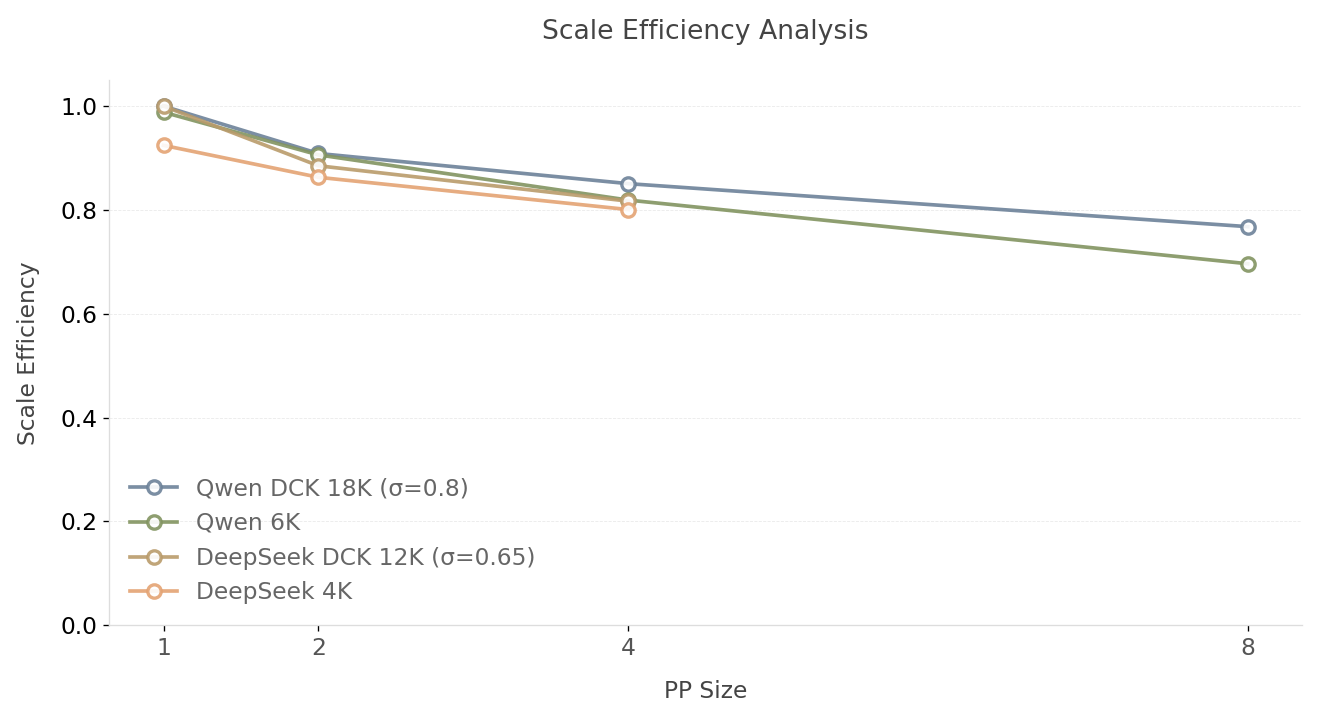
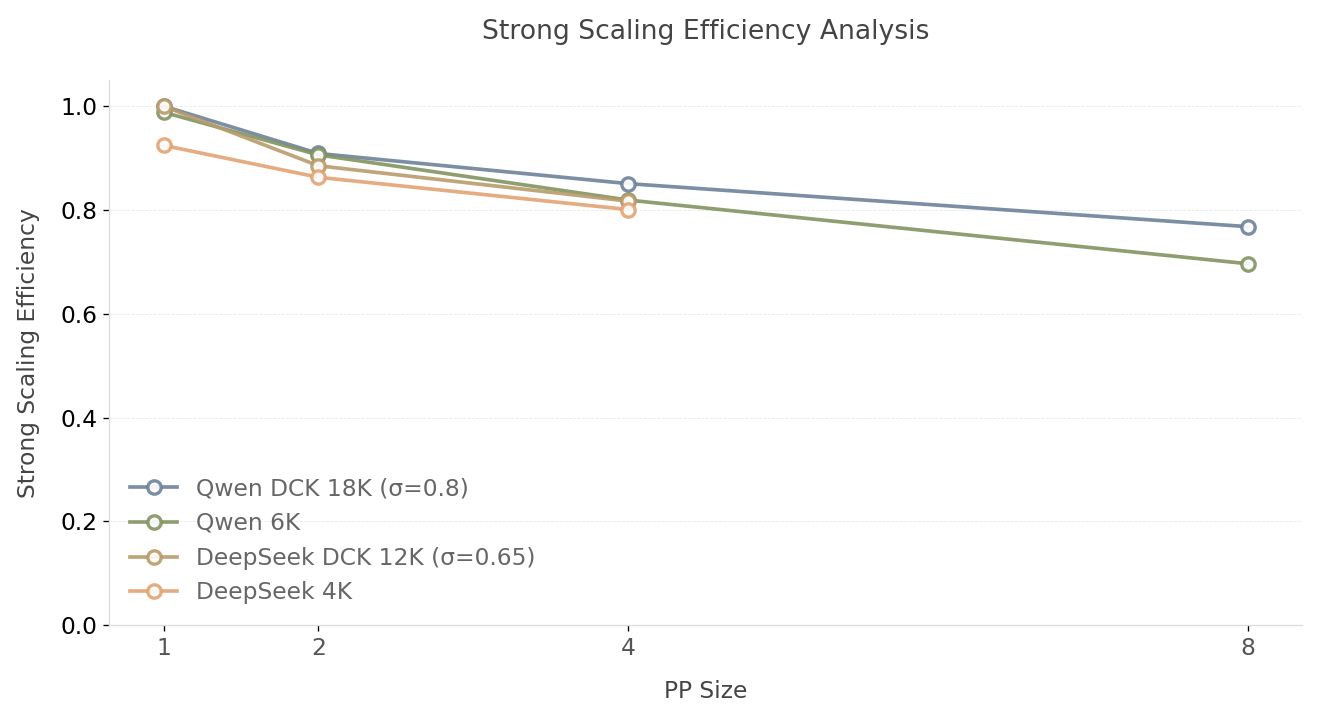
fix comment

Changed region(s): [[0.0, 0.3056, 0.0311, 0.7028], [0.3727, 0.0306, 0.7144, 0.0611]]

diff --git a/blog/2026-01-07-chunked-pipeline.md b/blog/2026-01-07-chunked-pipeline.md
@@ -45,7 +45,7 @@ The key mechanisms of the implementation include:
 
 ### **3\. Advanced Option: Dynamic chunking**
 
-With Chunked Pipeline Parallelism and Async P2P communication, SGLang already achieves over 80% scale efficiency as the PP size increases to 4. However, Chunked prefill with a fixed size can still cause bubbles in the pipeline, and this inefficiency becomes more pronounced as the PP degree increases. The main reason behind this phenomenon is that the model exhibits non-uniform execution latency across chunks of identical size, primarily due to the incremental nature of self-attention. **As the prefix sequence length grows, the per-chunk processing time increases non-linearly. These timing mismatches propagate through the pipeline, compounding efficiency losses at higher PP ranks.**
+With Chunked Pipeline Parallelism and Async P2P communication, SGLang already achieves over 80% strong scaling efficiency as the PP size increases to 4. However, Chunked prefill with a fixed size can still cause bubbles in the pipeline, and this inefficiency becomes more pronounced as the PP degree increases. The main reason behind this phenomenon is that the model exhibits non-uniform execution latency across chunks of identical size, primarily due to the incremental nature of self-attention. **As the prefix sequence length grows, the per-chunk processing time increases non-linearly. These timing mismatches propagate through the pipeline, compounding efficiency losses at higher PP ranks.**
 
 ![figure1](/images/blog/chunked_pipeline/pp_bubbles_before.jpg)<center>Fig. 1: Pipeline diagram with fixed chunked prefill size</center>
 
@@ -103,7 +103,7 @@ Our experimental testbed is a small cluster of 6 H20 nodes (8 × 96GB VRAM GPUs)
 
 Note: We use DCK to mark the chunked prefill size setup when enabling the dynamic chunking, and σ stands for the smooth factor of dynamic chunking.
 
-### **Input Token Throughput and Scale Efficiency**
+### **Input Token Throughput and Strong Scaling Efficiency**
 
 The analysis of Throughput and PP size demonstrates strong horizontal scalability across both model families, though the degree of efficiency varies by configuration.
 
@@ -114,12 +114,9 @@ The analysis of Throughput and PP size demonstrates strong horizontal scalabilit
 
 ![figure8](/images/blog/chunked_pipeline/qwen_throughput.png)<center>Fig. 8: Throughput Analysis of Qwen3-235B-A22B-FP8</center>
 
-![figure9](/images/blog/chunked_pipeline/normalized_throughput.png)<center>Fig. 9: Normalized Total Throughput vs. PP Size Analysis</center>
+The Strong Scaling Efficiency curves illustrate the degradation of hardware utilization as the system scales. All configurations exhibit a monotonic decay in efficiency as PP size (GPU counts) increases. However, **Qwen DCK 18K** maintains a superior efficiency of **77%** at the PP8 scale, whereas the static 6K configuration drops to **70%**. This confirms that larger, dynamically managed chunks are more resilient to the communication overheads inherent in large-scale distributed inference. Due to resource constraints, DeepSeek-V3.1 was evaluated up to PP size \= 4, maintaining an efficiency of **\~81.7%**. Extrapolating the current slope suggests that DeepSeek would likely follow a similar efficiency trajectory to Qwen, where DCK is projected to outperform the fixed chunking strategy.
 
-
-The Scale Efficiency curves illustrate the degradation of hardware utilization as the system scales. All configurations exhibit a monotonic decay in efficiency as PP size (GPU counts) increases. However, **Qwen DCK 18K** maintains a superior efficiency of **77%** at the PP8 scale, whereas the static 6K configuration drops to **70%**. This confirms that larger, dynamically managed chunks are more resilient to the communication overheads inherent in large-scale distributed inference. Due to resource constraints, DeepSeek-V3.1 was evaluated up to PP size \= 4, maintaining an efficiency of **\~81.7%**. Extrapolating the current slope suggests that DeepSeek would likely follow a similar efficiency trajectory to Qwen, where DCK is projected to outperform the fixed chunking strategy.
-
-![figure10](/images/blog/chunked_pipeline/scale_efficiency.png)<center>Fig. 10: Scale Efficiency vs. PP Size Analysis</center>
+![figure9](/images/blog/chunked_pipeline/scale_efficiency.png)<center>Fig. 9: Strong Scaling Efficiency vs. PP Size Analysis</center>
 
 ### **Reduced TTFT and Scaling Out for 1 million ITL**
 
@@ -127,9 +124,9 @@ A critical observation from the experimental data is the performance degradation
 
 Furthermore, increasing the pipeline depth from PP1 to PP4 can yield a substantial reduction in TTFT for both the fixed chunked setting and dynamic chunking. But dynamic chunking performs better for different PP setups. For the Qwen3-235B-A22B-FP8, the baseline TTFT of **\~55.5s** (PP1 TP4) is reduced to **\~10.5s** under the PP8 TP4 configuration, representing a latency improvement of approximately **81.1%**. And for the DeepSeek-V3.1, the baseline TTFT of **\~48.5s** (PP1 TP8) is reduced to **\~15.7s** under the PP4 TP8 configuration, depicting a latency improvement of approximately **67.6%**. These results indicate that Chunked Pipeline Parallelism is highly effective for reducing TTFT.
 
-![figure11](/images/blog/chunked_pipeline/ds_ttft.png)<center>Fig. 11: TTFT Analysis of DeepSeek-V3.1</center>
+![figure10](/images/blog/chunked_pipeline/ds_ttft.png)<center>Fig. 10: TTFT Analysis of DeepSeek-V3.1</center>
 
-![figure12](/images/blog/chunked_pipeline/qwen_ttft.png)<center>Fig. 12: TTFT Analysis of Qwen3-235B-A22B-FP8</center>
+![figure11](/images/blog/chunked_pipeline/qwen_ttft.png)<center>Fig. 11: TTFT Analysis of Qwen3-235B-A22B-FP8</center>
 
 To demonstrate the scalability of SGLang with this optimized Chunked Pipeline Parallelism, we benchmarked the TTFT across varying input token lengths for Qwen3-235B-A22B-FP8 with PP8 (32 NVIDIA H20 GPUs). As shown in the table below, the system efficiently scales to handle massive contexts. Even at the extreme edge of **1 million tokens**, SGLang maintains high stability and acceptable latency on NVIDIA H20, showcasing its capability for the most demanding long-context applications.
 
